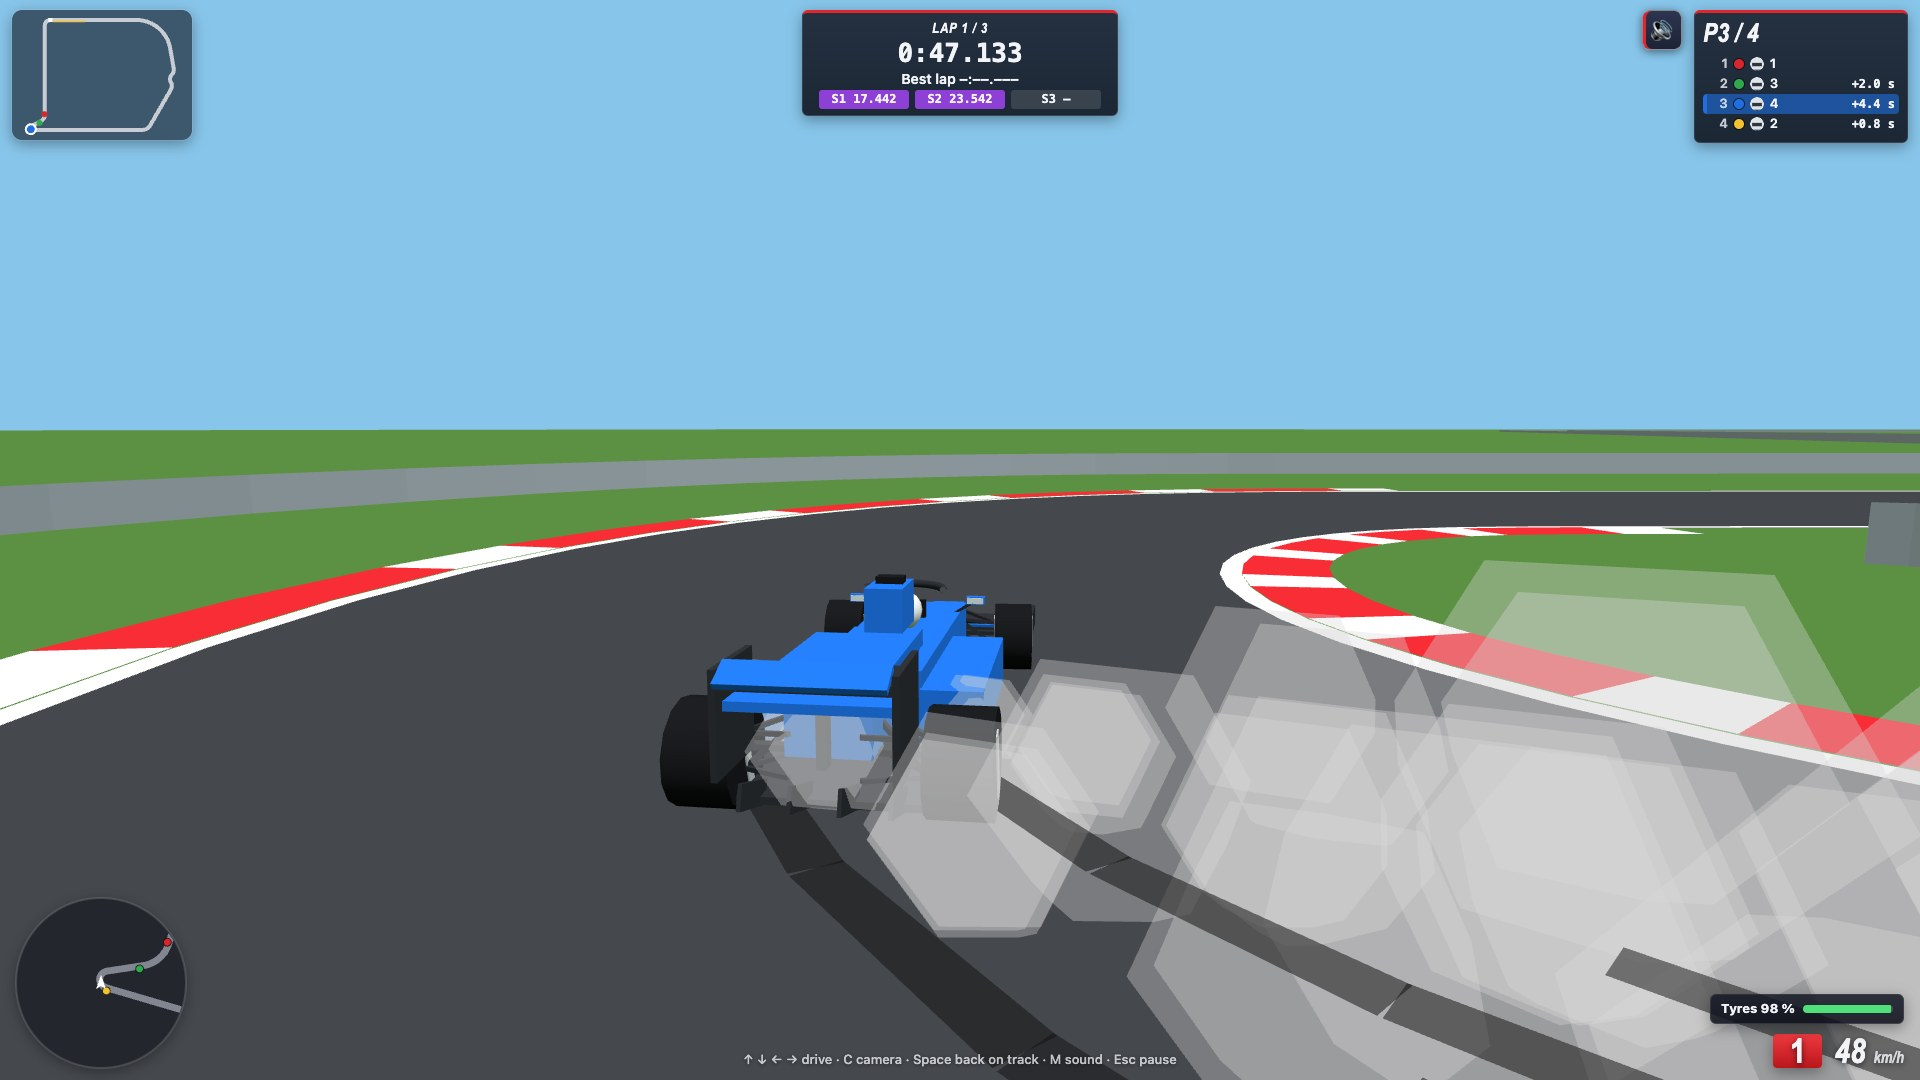
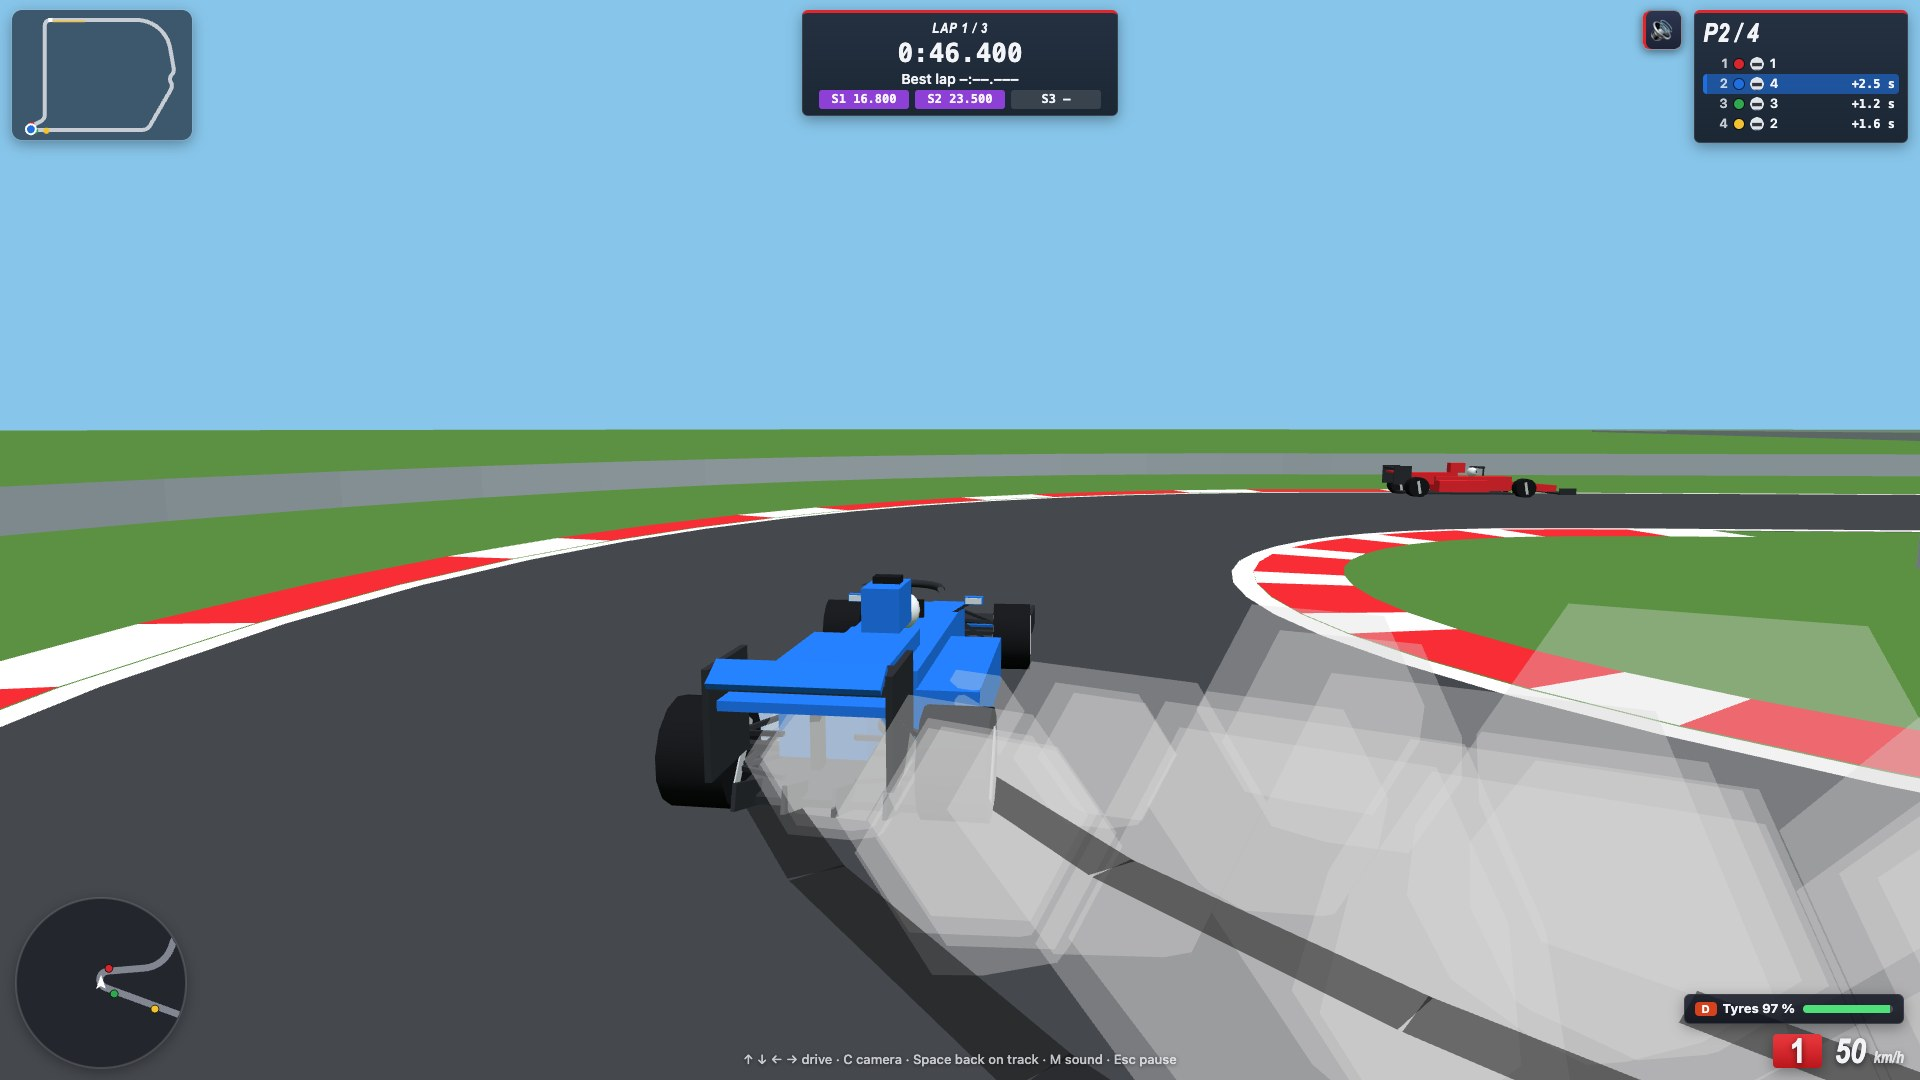
Tour 37l : les captures des pneus drift (garage, icône en course, glissade en drift), compte rendu

diff --git a/rapports/tour-37l-compte-rendu-codeur3.md b/rapports/tour-37l-compte-rendu-codeur3.md
@@ -1,0 +1,36 @@
+# Tour 37l — compte rendu du Codeur 3 (2026-10-31) : la partie écran du pneu drift
+
+Branche codeur3, main fusionné avec le pneu drift du Codeur 1 (`PNEUS_CHOIX`, la leçon 8 en `&pneus=drift`). Je n'ai touché ni pneus.js, ni physique.js, ni ia.js.
+
+1. **La 8e leçon, « Le drift »**, refaite comme Elijah la décrit (tutoriel.js) :
+   - essai libre sur le technique, à l'épingle marquée par les plots ;
+   - **phase drift** (le pneu drift monté sur la voiture du joueur par `TUTORIEL.appliquerPneu`) : faire glisser l'arrière, au moins `TUTO_DRIFT_ARRIERE` (0,6) pendant `TUTO_DRIFT_TENUE` (0,3 s), et le rattraper ;
+   - **phase adhérant** : le même virage, proprement, en pneus adhérant ;
+   - **réussie** après les deux ;
+   - **ratée** tout de suite en cas d'herbe (« sortie ») ou de tête-à-queue (l'angle de l'arrière au-delà de `TUTO_TETE_A_QUEUE`, 1,2 rad) ;
+   - **ratée** aussi après 3 passages sans vraie glissade (« pasGlisse »), ou si l'on ne fait rien (« temps »).
+
+   Une consigne par phase, en fr et en en.
+   - Tests (tests/tutoriel.html, 19/19) :
+     - réussie ; ratée par l'herbe, par un tête-à-queue, sans glissade et sans rien faire ;
+     - le pneu monté à chaque phase ;
+     - **un pilote scripté (le robot d'essai) la réussit** : glissade à 1,0 tenue 0,93 s et rattrapée en drift, puis l'épingle à 0,08 en adhérant.
+2. **Les bulles** (aides.js) :
+   - `vivante` parle maintenant du pneu drift et s'affiche à la première course avec ce pneu ;
+   - `pneus`, nouvelle, s'affiche au premier clic sur un pneu au garage (la bulle du garage d'abord, comme avant) et explique l'adhérant et le drift.
+
+   Test : aides.html, 20/20.
+3. **L'écran** :
+   - le drift est dans la liste du garage (fait par le Codeur 1). Le slick s'appelle maintenant « Grip / Adhérant » à l'écran ;
+   - à l'arrêt, ← → passent par la même liste (`METEO.TYPES`, avec le drift) ;
+   - **une icône du pneu monté** (une lettre de couleur, le nom en bulle) à côté de la jauge d'usure.
+
+   Les captures, prises avant 21h, sont dans poki/captures/ :
+   - pneus-drift-fr / en (le garage, le drift choisi, la bulle des pneus) ;
+   - pneus-drift-course-fr / en (l'icône D près de la jauge) ;
+   - 6-glissade refaite en pneus drift.
+
+   Le script : `poki/capture-pneus.py`.
+4. **La fiche Poki** : le drift est un pneu, choisi au garage et à chaque arrêt, et la 8e leçon apprend le drift.
+
+**Pas vérifié** : la leçon jouée dans la vraie page, de bout en bout (seul son calcul et le pilote scripté sont testés). À noter aussi : la rangée des pneus du garage n'est pas centrée en 1280×720 ; cette mise en page date d'avant ce tour.
